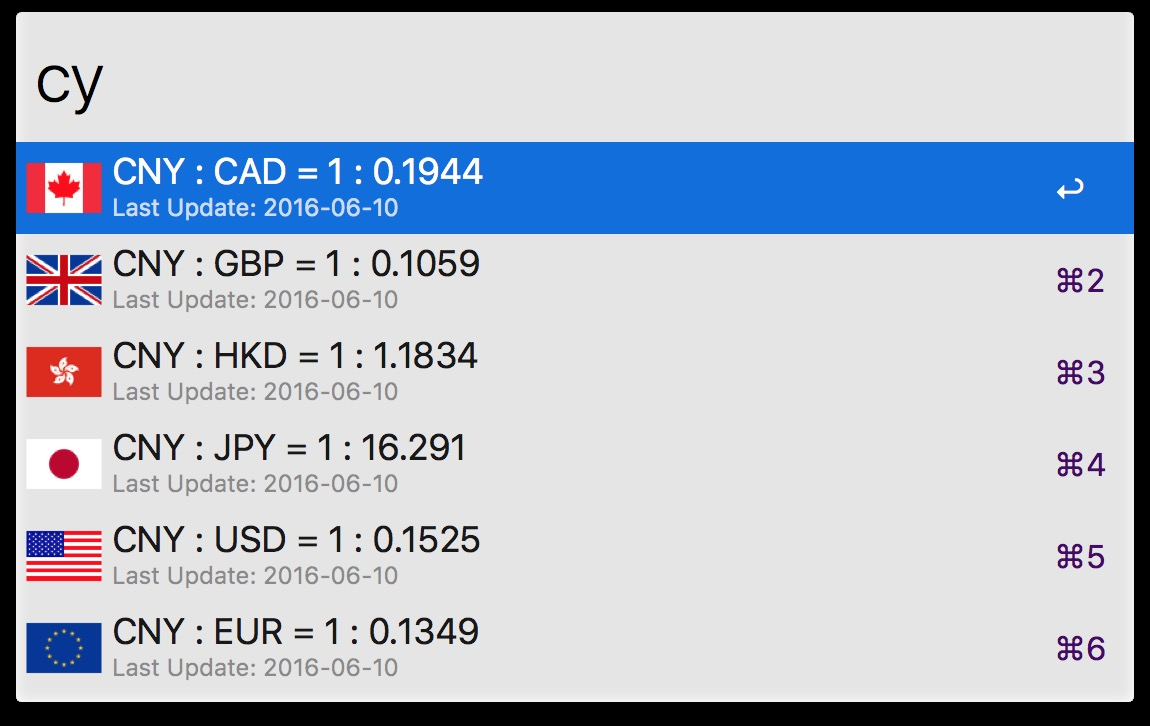
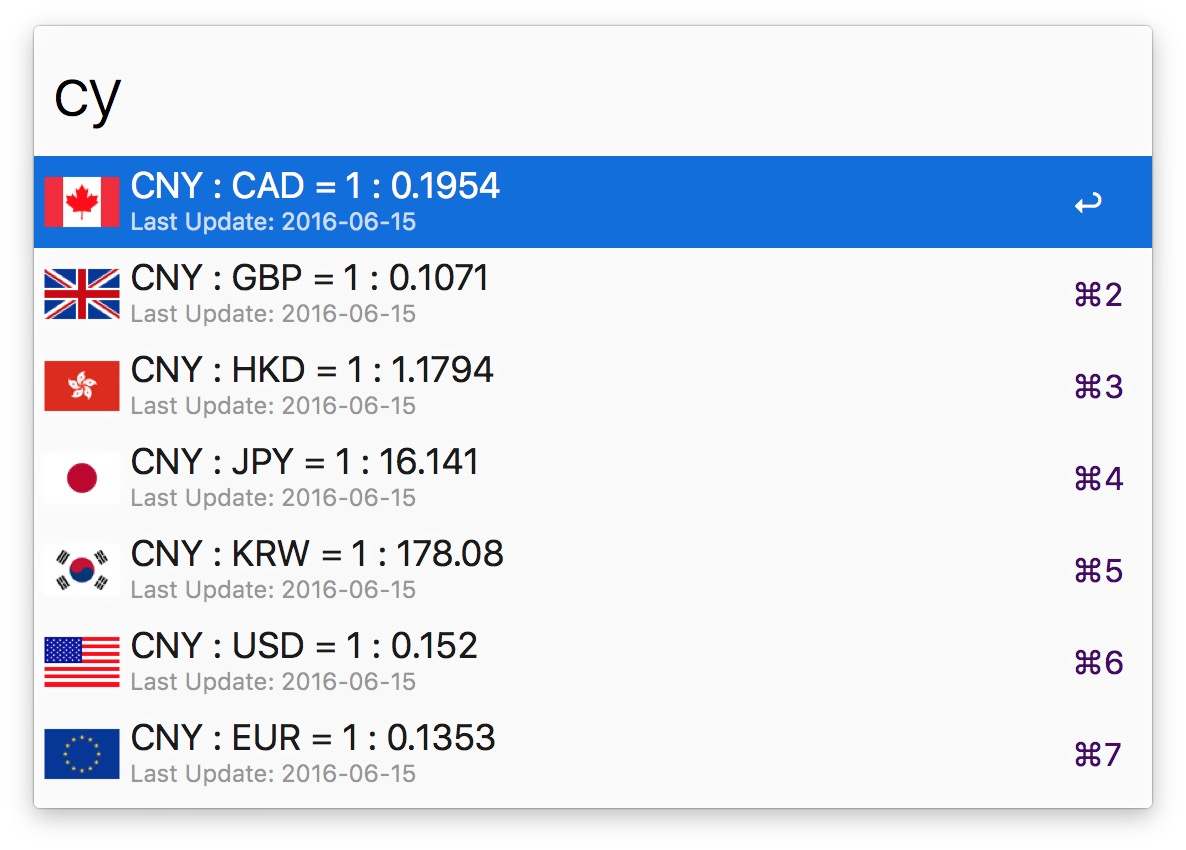
update new screenshots
update new screenshots

Changed region(s): [[0.0, 0.0, 1.0, 1.0]]

diff --git a/README.md b/README.md
@@ -2,9 +2,15 @@
 
 This alfred3 workflow can convert currency conveniently.
 
+## features
+
+1. Support 30+ currency units with fixer.io.
+2. Basic support for sign. e.g.,$,￥,£,etc.
+3. Customizable displayed currency units and base unit.
+
 ## screenshots
 
-Tap 'cy' to see the latest exchange rate of CNY.
+Tap 'cy' to see the latest exchange rate of your base unit.
 
 ![screenshots1](https://raw.githubusercontent.com/jin5354/alfred3-workflow-CurrencyConvert/master/screenshots/cy1.png)
 
@@ -12,8 +18,18 @@ Tap 'cy money' to see the exchanged money.
 
 ![screenshots2](https://raw.githubusercontent.com/jin5354/alfred3-workflow-CurrencyConvert/master/screenshots/cy2.png)
 
+Tap 'add-cy' or 'remove-cy' to adjust displayed currency units.
+
+Tap 'base-cy' or 'remove-cy' to set base unit.
+
 ## todo
 
-1. support more currency units.
-2. support currency sign($ etc.)
-3. customizable common currency units.
+1. ~~support more currency units.~~
+2. ~~support currency sign($ etc.)~~
+3. ~~customizable common currency units.~~
+
+All done!
+
+## license
+
+MIT
